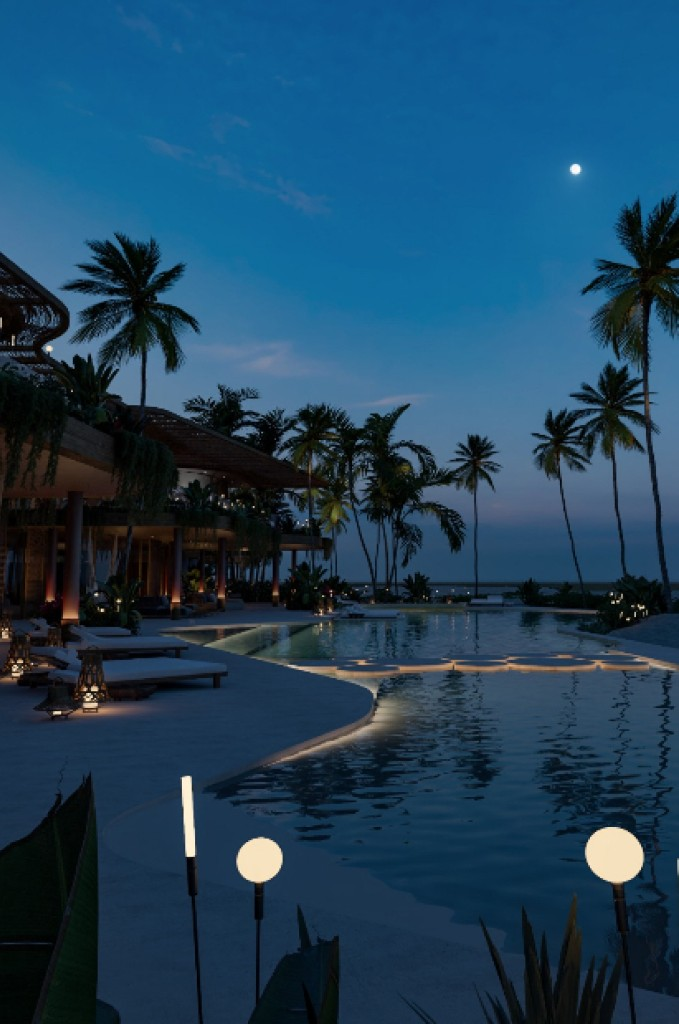
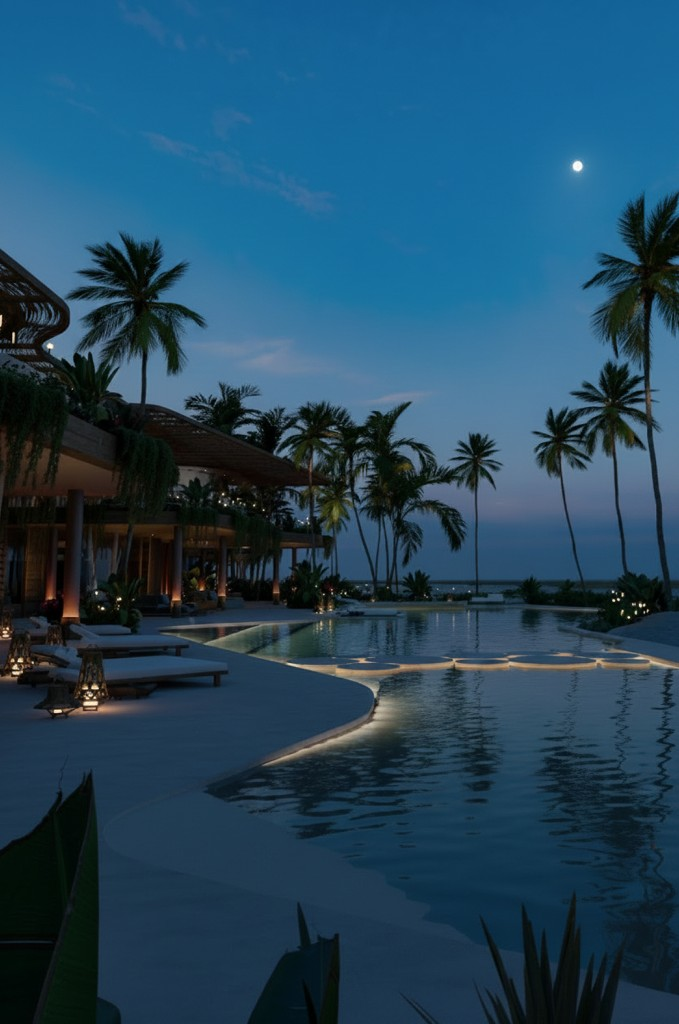
Update Cabarete hero render asset.
Replace the Cabarete background image and bump cache-bust version so mobile Safari loads the new render.

diff --git a/js/data.js b/js/data.js
@@ -14,7 +14,7 @@ export const HERO_LOCATIONS = [
   {
     id: "cabarete",
     label: "Cabarete, Dominican Republic",
-    bg: "assets/hero-bg-cabarete.png?v=20260602-1243",
+    bg: "assets/hero-bg-cabarete.png?v=20260602-1410",
     href: "#destinations",
   },
   {